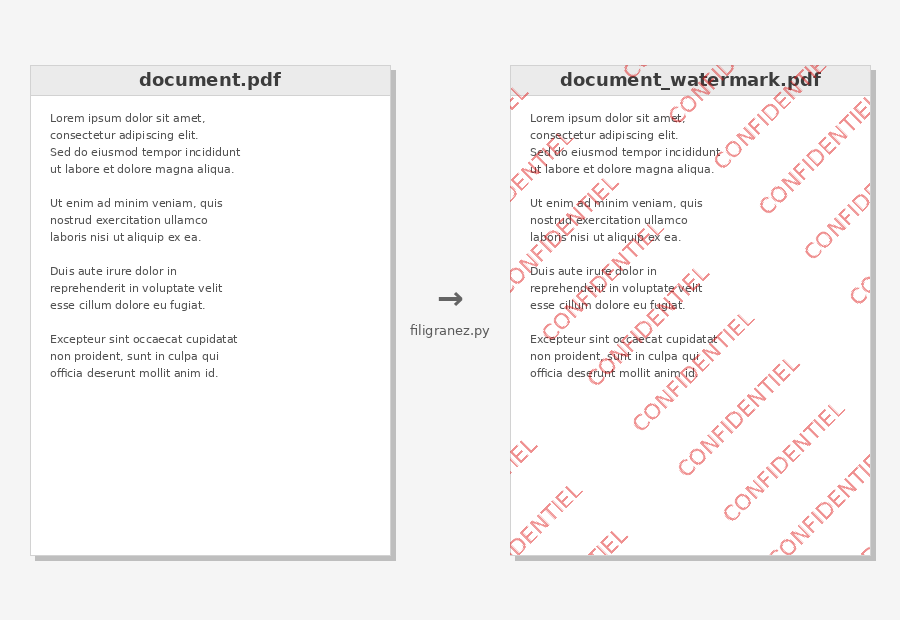
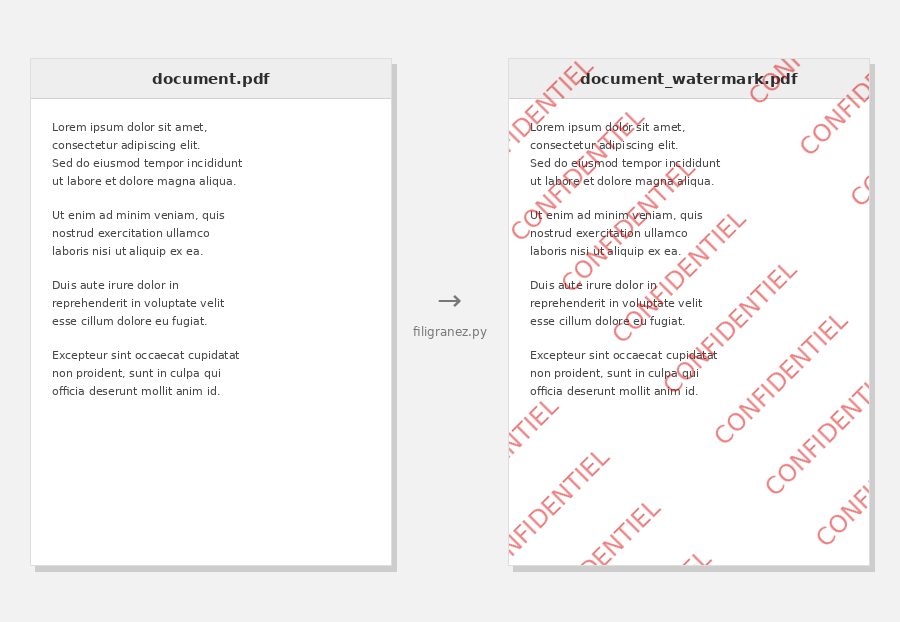
Update README; update requirements & nix file; update visuals

diff --git a/README.md b/README.md
@@ -10,10 +10,10 @@ python filigranez.py document.pdf "CONFIDENTIEL"
 
 ---
 
-![Before / After — custom args](example2.png)
+![Before / After — custom color](example2.png)
 
 ```bash
-python filigranez.py document.pdf "ANNULÉ" --opacity 0.75 --rotation 20 --font-size 38
+python filigranez.py document.pdf "BROUILLON" --color "#1E6FFF" --rotation 30 --font-size 38
 ```
 
 ---
@@ -39,6 +39,8 @@ The resulting PDF contains only raster images — no text objects, no layers, no
 ```bash
 pip install -r requirements.txt
 ```
+
+`colorama` (colored output on Windows) and `tqdm` (progress bars) are optional — the tool runs without them, falling back to plain per-page log lines.
 
 ### System — Linux
 
@@ -74,8 +76,12 @@ filigranez.py <input> <text> [output] [options]
 | `--rotation` | `-r` | `45` | Rotation angle in degrees |
 | `--dpi` | `-d` | `200` | Rendering resolution (higher = better quality, larger file) |
 | `--font-size` | `-f` | auto | Font size in pixels (default: page width / 18) |
+| `--color` | `-c` | `#DC1414` | Watermark text color — `#RRGGBB` or a color name (e.g. `red`, `navy`) |
+| `--quality` | `-q` | `95` | JPEG quality 1–95 (lower = smaller file, more compression) |
 | `--suffix-name` | `-s` | `watermark` | Suffix appended to output filename(s) |
 | `--poppler-path` | `-p` | — | Path to poppler `bin/` directory (Windows) |
+
+Output page dimensions are preserved (the rendering DPI is embedded so the resulting PDF matches the original page size).
 
 ## Examples
 
@@ -85,6 +91,13 @@ python filigranez.py document.pdf "CONFIDENTIEL"
 
 # Custom opacity and rotation
 python filigranez.py document.pdf "DRAFT" --opacity 0.3 --rotation 30
+
+# Custom watermark color (hex or name)
+python filigranez.py document.pdf "BROUILLON" --color "#1E6FFF"
+python filigranez.py document.pdf "SECRET" --color navy
+
+# Smaller output file (more JPEG compression)
+python filigranez.py document.pdf "INTERNE" --quality 70
 
 # Explicit output filename
 python filigranez.py document.pdf "SECRET" output.pdf
@@ -109,6 +122,7 @@ When the input is a directory, the tool:
 - Preserves the original directory structure in the output
 - Creates an output directory named `<input_dir>_<suffix>`
 - Leaves original files untouched
+- Skips unreadable/corrupt PDFs and keeps going (a summary of failures is printed, and the exit code is non-zero if any file failed)
 
 ```
 docs/
